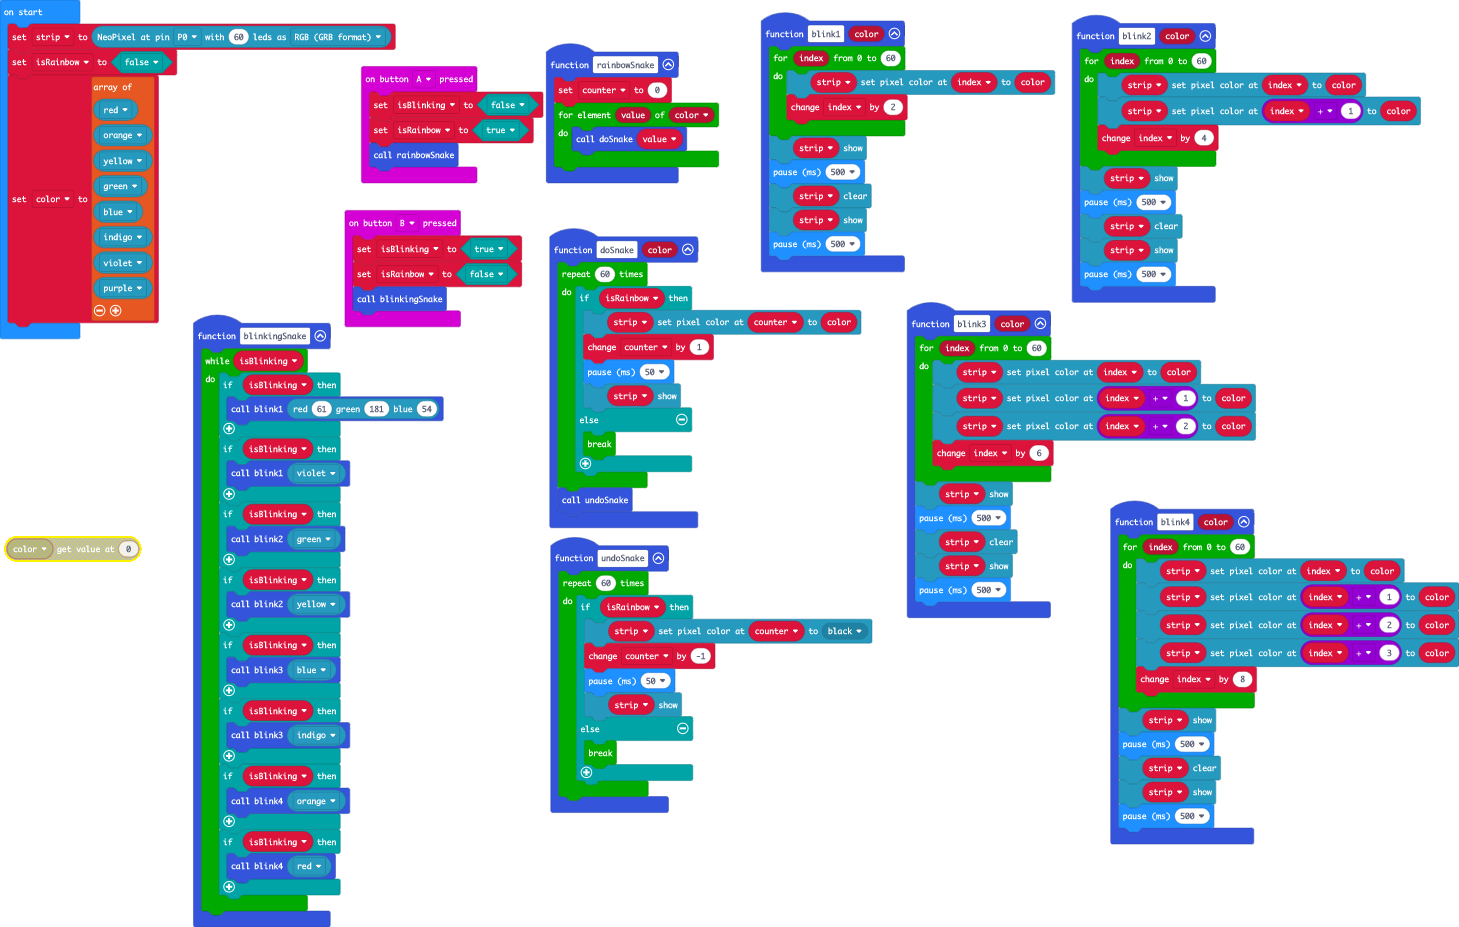
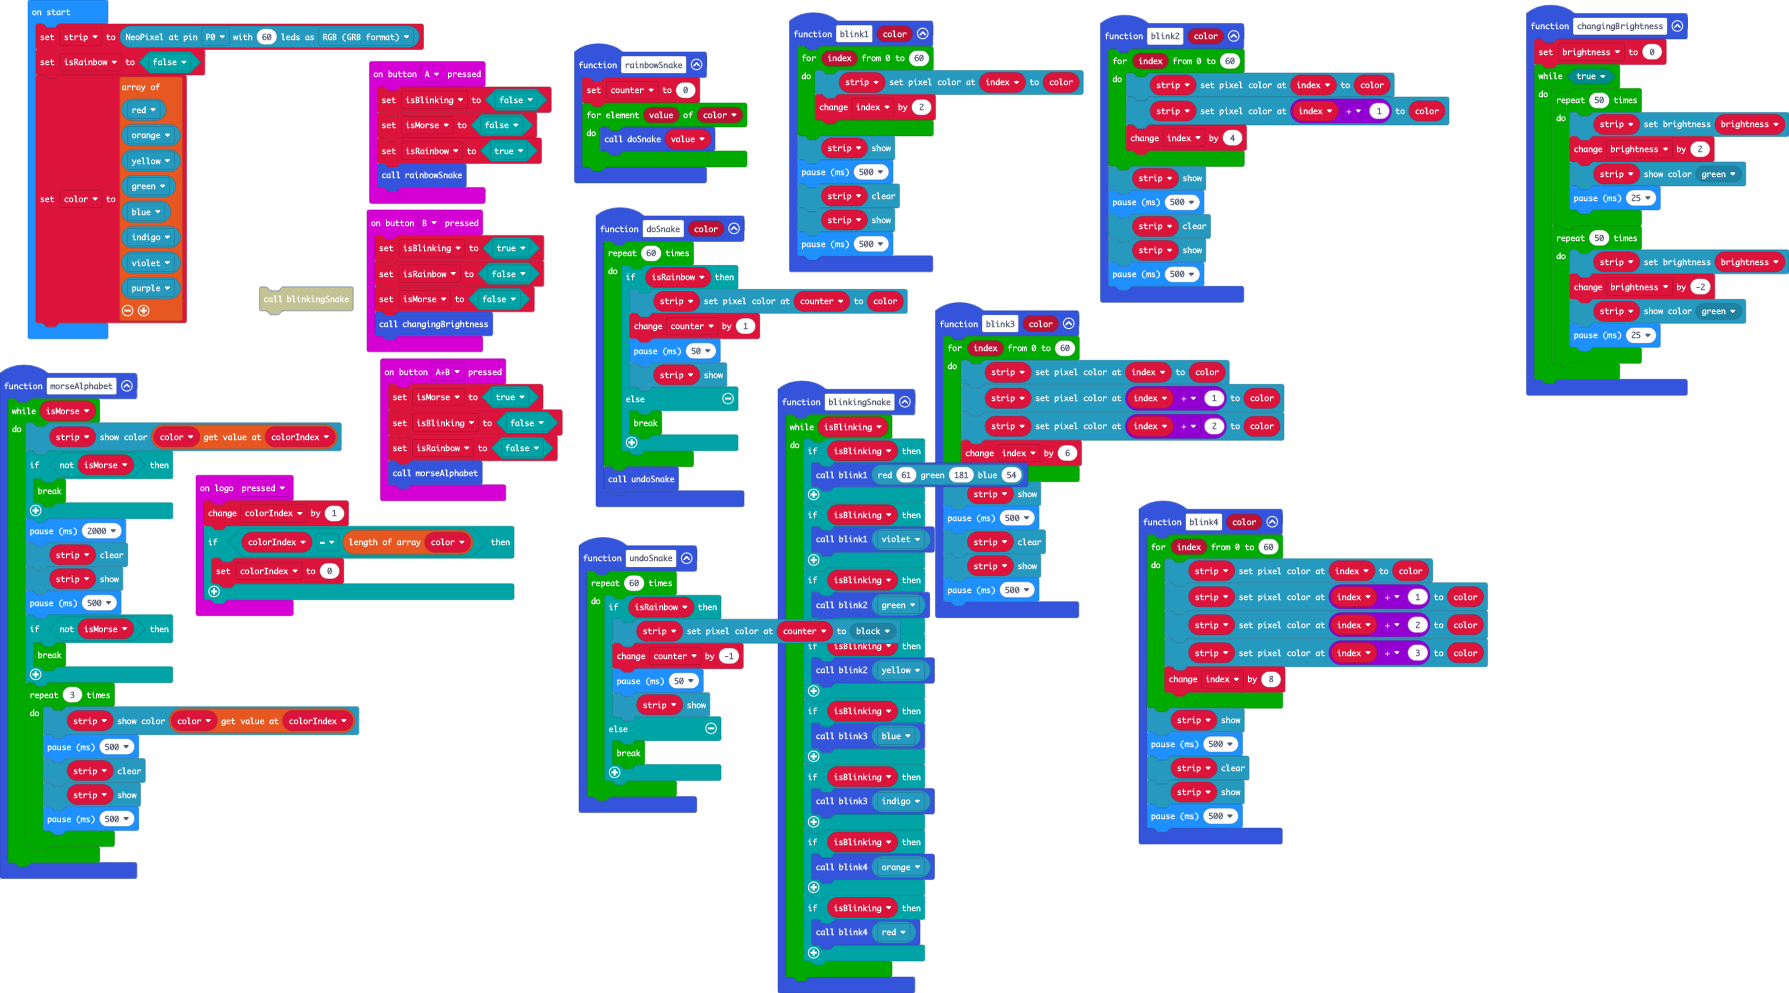
add morse blinking

diff --git a/main.ts b/main.ts
@@ -1,3 +1,25 @@
+function morseAlphabet () {
+    while (isMorse) {
+        strip.showColor(color[colorIndex])
+        if (!(isMorse)) {
+            break;
+        }
+        basic.pause(2000)
+        strip.clear()
+        strip.show()
+        basic.pause(500)
+        if (!(isMorse)) {
+            break;
+        }
+        for (let index = 0; index < 3; index++) {
+            strip.showColor(color[colorIndex])
+            basic.pause(500)
+            strip.clear()
+            strip.show()
+            basic.pause(500)
+        }
+    }
+}
 function blink2 (color: number) {
     for (let index = 0; index <= 60; index++) {
         strip.setPixelColor(index, color)
@@ -51,6 +73,7 @@ function blinkingSnake () {
 }
 input.onButtonPressed(Button.A, function () {
     isBlinking = false
+    isMorse = false
     isRainbow = true
     rainbowSnake()
 })
@@ -87,6 +110,12 @@ function doSnake (color: number) {
     }
     undoSnake()
 }
+input.onButtonPressed(Button.AB, function () {
+    isMorse = true
+    isBlinking = false
+    isRainbow = false
+    morseAlphabet()
+})
 function undoSnake () {
     for (let index = 0; index < 60; index++) {
         if (isRainbow) {
@@ -102,7 +131,8 @@ function undoSnake () {
 input.onButtonPressed(Button.B, function () {
     isBlinking = true
     isRainbow = false
-    blinkingSnake()
+    isMorse = false
+    changingBrightness()
 })
 function blink3 (color: number) {
     for (let index = 0; index <= 60; index++) {
@@ -117,8 +147,34 @@ function blink3 (color: number) {
     strip.show()
     basic.pause(500)
 }
+input.onLogoEvent(TouchButtonEvent.Pressed, function () {
+    colorIndex += 1
+    if (colorIndex == color.length) {
+        colorIndex = 0
+    }
+})
+function changingBrightness () {
+    brightness = 0
+    while (true) {
+        for (let index = 0; index < 50; index++) {
+            strip.setBrightness(brightness)
+            brightness += 2
+            strip.showColor(neopixel.colors(NeoPixelColors.Green))
+            basic.pause(25)
+        }
+        for (let index = 0; index < 50; index++) {
+            strip.setBrightness(brightness)
+            brightness += -2
+            strip.showColor(neopixel.colors(NeoPixelColors.Green))
+            basic.pause(25)
+        }
+    }
+}
+let brightness = 0
 let counter = 0
 let isBlinking = false
+let colorIndex = 0
+let isMorse = false
 let color: number[] = []
 let isRainbow = false
 let strip: neopixel.Strip = null
